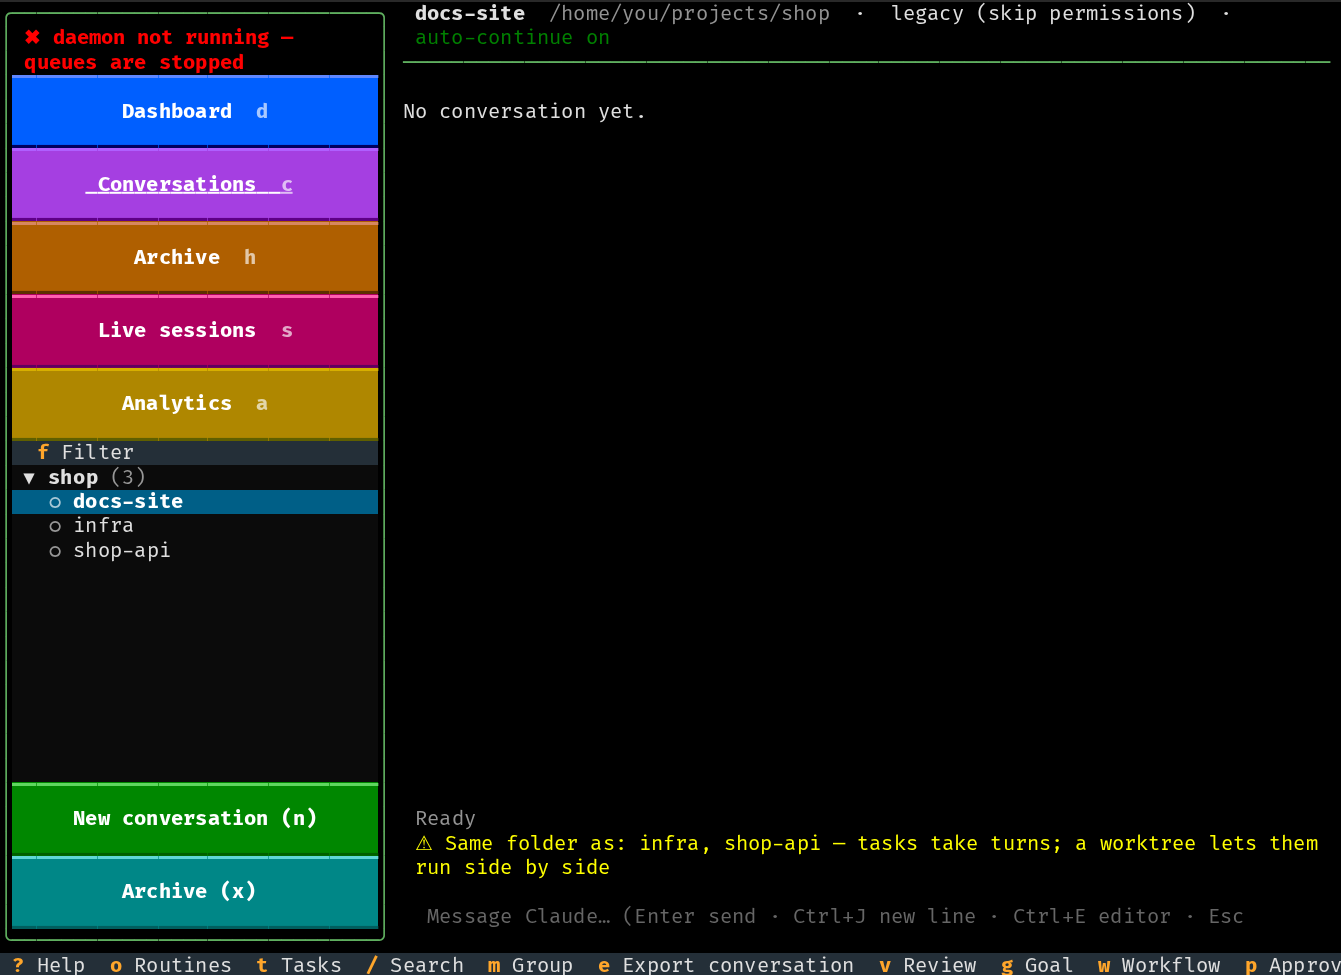
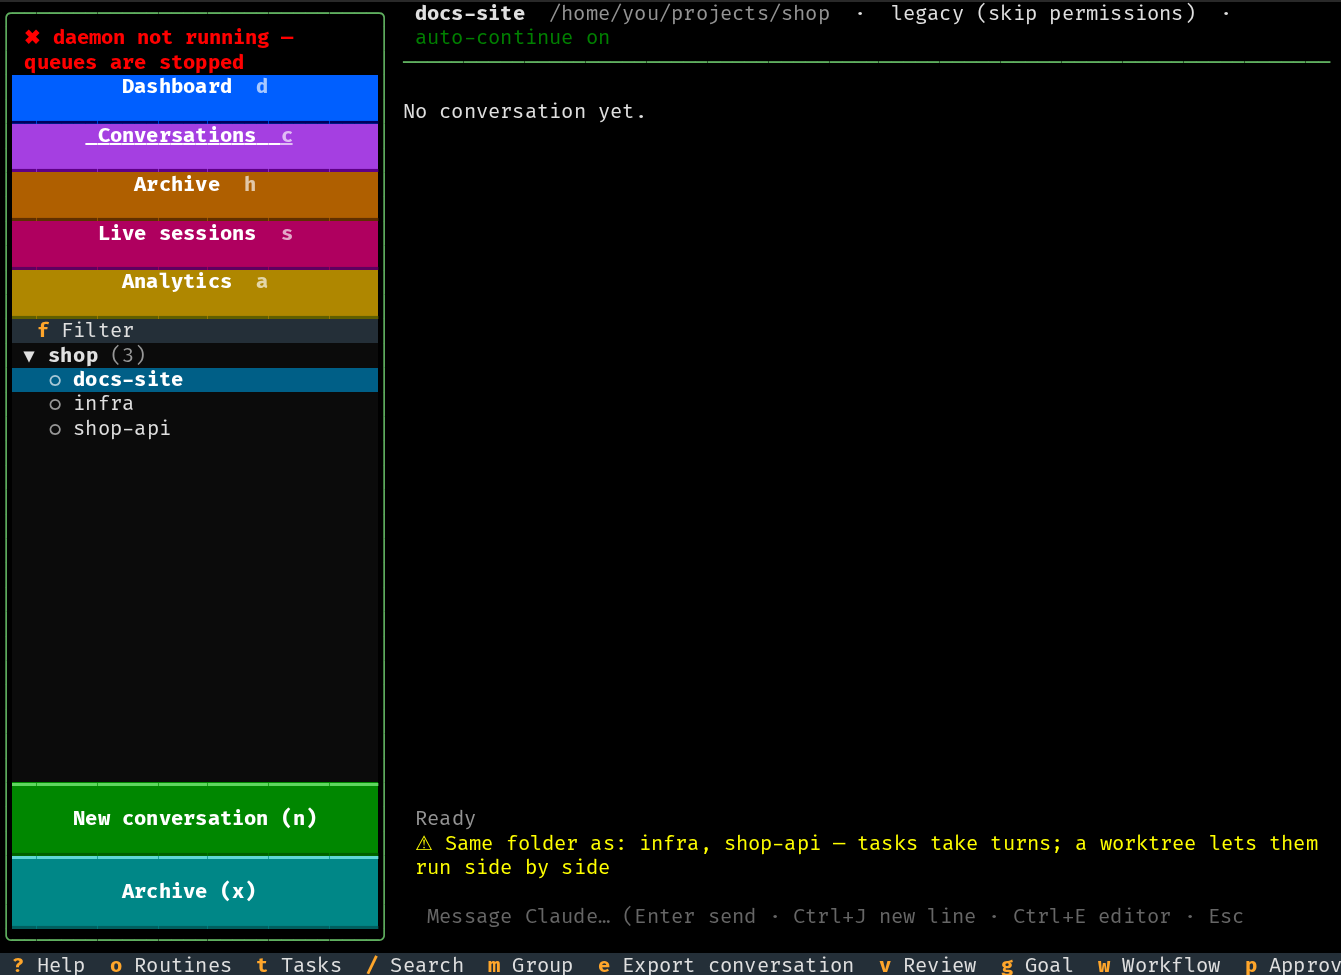
Daemon state always shown above the menu; main menu buttons half as high

Changed region(s): [[0.0, 0.0615, 0.3057, 0.5846]]

diff --git a/src/ccc/tui/layout.py b/src/ccc/tui/layout.py
@@ -232,11 +232,12 @@ Button.sidebar-button-red.-active {
     border-bottom: tall #ff5f5f;
 }
 /* The main menu (Dashboard … Analytics): 3D like the buttons below, each its own colour,
-   directly under each other; the open view is lighter. In a short window
-   (SidebarScreen.-short) one row each, so the list and the buttons still fit. */
+   directly under each other, half as high (the text row and the dark lower edge); the open
+   view is lighter. In a short window (SidebarScreen.-short) one row each, so the list and
+   the buttons still fit. */
 Button.nav-button {
     width: 100%;
-    height: 3;
+    height: 2;
     border: none;
     text-style: bold;
 }
@@ -244,11 +245,11 @@ Button.nav-button.-current {
     background-tint: white 25%;
     text-style: bold underline;
 }
-Button.nav-dashboard { background: #005fff; border-top: tall #5f87ff; border-bottom: tall #00005f; }
-Button.nav-conversations { background: #8700d7; border-top: tall #af5fff; border-bottom: tall #5f0087; }
-Button.nav-archive { background: #af5f00; border-top: tall #d7875f; border-bottom: tall #5f2f00; }
-Button.nav-sessions { background: #af005f; border-top: tall #ff5faf; border-bottom: tall #5f005f; }
-Button.nav-analytics { background: #af8700; border-top: tall #d7af00; border-bottom: tall #5f5f00; }
+Button.nav-dashboard { background: #005fff; border-top: none; border-bottom: tall #00005f; }
+Button.nav-conversations { background: #8700d7; border-top: none; border-bottom: tall #5f0087; }
+Button.nav-archive { background: #af5f00; border-top: none; border-bottom: tall #5f2f00; }
+Button.nav-sessions { background: #af005f; border-top: none; border-bottom: tall #5f005f; }
+Button.nav-analytics { background: #af8700; border-top: none; border-bottom: tall #5f5f00; }
 SidebarScreen.-short Button.nav-button {
     height: 1;
     border: none;
@@ -511,14 +512,12 @@ class SidebarScreen(Screen):
     def refresh_daemon_state(self) -> None:
         from ccc.heartbeat import daemon_alive
 
-        # Only a stopped daemon is news; a running one is the normal state.
+        # Always shown, above the menu: running (green) or the problem (red).
         if daemon_alive(self.storage):
-            text = Text("")
+            text = Text(_("● daemon running"), style="bold green")
         else:
             text = Text(_("✖ daemon not running — queues are stopped"), style="bold red")
-        state = self.query_one("#daemon-state", Static)
-        state.update(text)
-        state.display = bool(text.plain)
+        self.query_one("#daemon-state", Static).update(text)
         self._refresh_update_state()
         self.sync_retry_button()
 

diff --git a/src/ccc/i18n/cs.py b/src/ccc/i18n/cs.py
@@ -85,6 +85,7 @@ CS: dict[str, str] = {
     "y / Enter yes  ·  n / Esc no": "y / Enter ano  ·  n / Esc ne",
     "Esc close": "Esc zavřít",
     "✖ daemon not running — queues are stopped": "✖ daemon neběží — fronty stojí",
+    "● daemon running": "● daemon běží",
 
     # --- Dashboard ------------------------------------------------------------
     "[b]No conversations yet.[/b] Three steps to your first one:\n\n"

diff --git a/tests/test_heartbeat.py b/tests/test_heartbeat.py
@@ -47,4 +47,4 @@ async def test_sidebar_shows_daemon_state(tmp_path):
         assert "daemon not running" in str(app.screen.query_one("#daemon-state").render())
         storage.set_setting(HEARTBEAT_KEY, datetime.now().isoformat())
         app.screen.refresh_daemon_state()
-        assert not app.screen.query_one("#daemon-state").display
+        assert "daemon running" in str(app.screen.query_one("#daemon-state").render())
